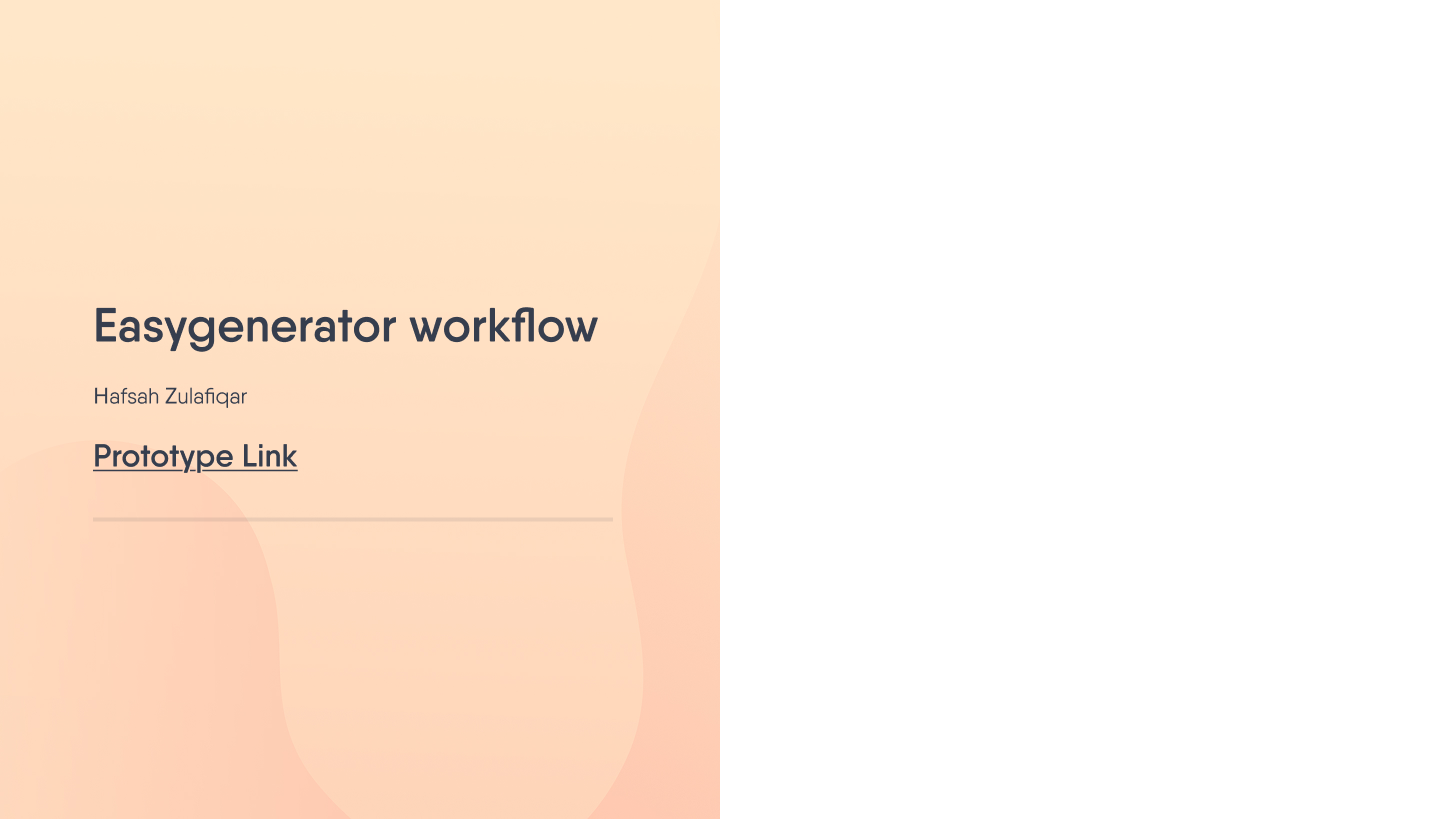
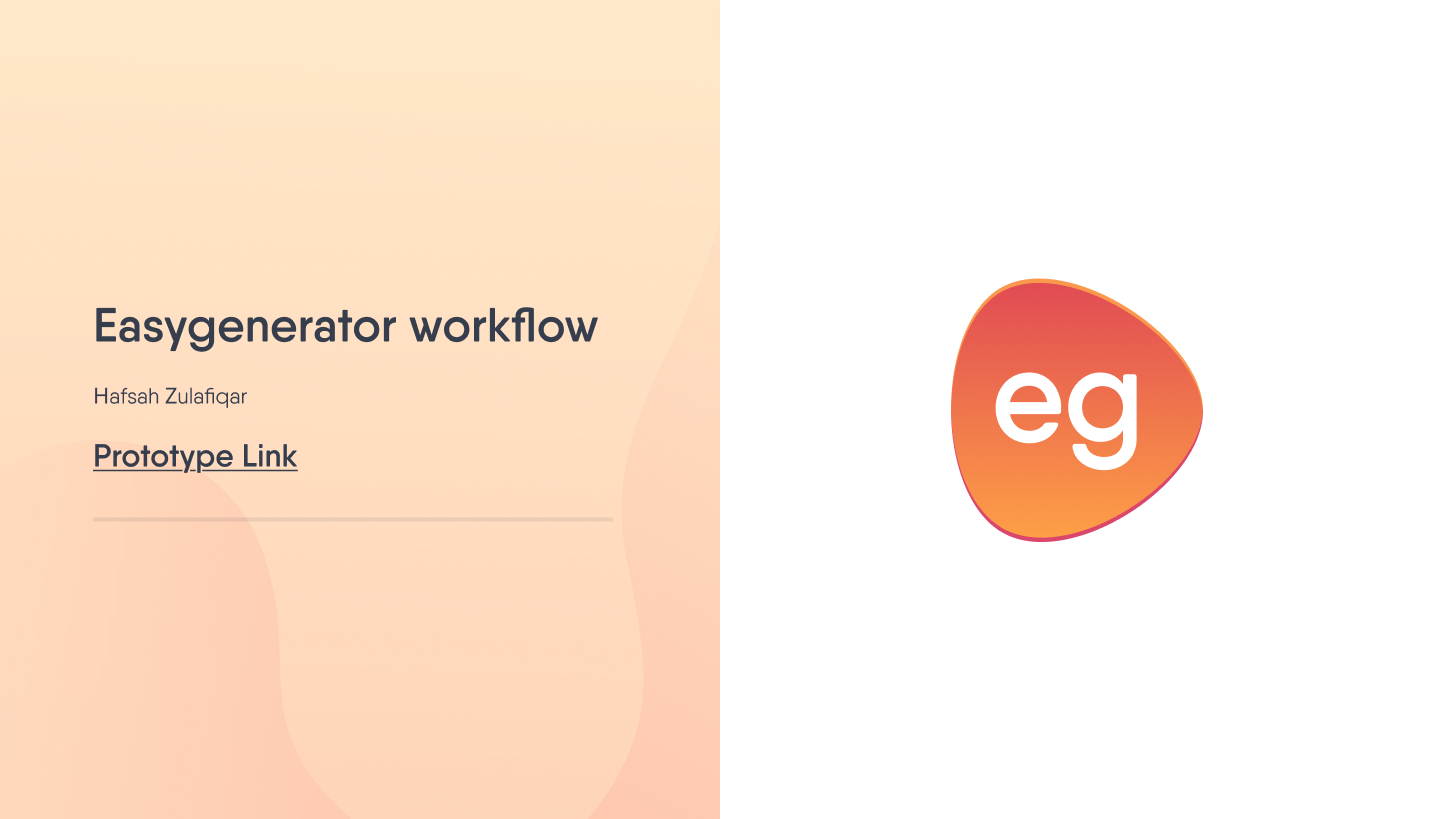
Homepage case study tags, new Easygenerator cover

Changed region(s): [[0.6562, 0.3358, 0.8438, 0.6716]]

diff --git a/index.html b/index.html
@@ -19,7 +19,7 @@
 <meta name="twitter:description" content="Customer Experience &amp; Design Manager and Product Design Manager based in Dubai, UAE. Design and growth case studies from FITT Meals, Kahunas, PureCS, and more.">
 <meta name="twitter:image" content="https://hafsahzulafiqar-prod.github.io/hafsahzulafiqar/assets/profile/hafsah.png">
 <script>document.documentElement.classList.add('js-ready');</script>
-<link rel="stylesheet" href="styles.css?v=2026100821">
+<link rel="stylesheet" href="styles.css?v=2026100823">
 <link rel="preconnect" href="https://fonts.googleapis.com">
 <link rel="preconnect" href="https://fonts.gstatic.com" crossorigin>
 <link href="https://fonts.googleapis.com/css2?family=DM+Sans:wght@400;500;700&family=Fira+Sans:wght@400;700;800;900&display=swap" rel="stylesheet">
@@ -203,6 +203,7 @@
           <article class="case-studies-card active">
             <div class="case-studies-media" aria-hidden="true"><video class="case-video-fill" src="assets/mualim/intro.mp4" poster="assets/mualim/intro-poster.jpg" muted loop playsinline preload="none"></video></div>
             <div class="case-studies-info">
+              <p class="case-studies-tags">EdTech | AI learning | KSA</p>
               <p class="case-studies-kicker">Mualim: AI Tutor for Kids</p>
               <h3 class="case-studies-title">Reimagining learning support for kids in Saudi Arabia.</h3>
               <div class="case-studies-results">
@@ -218,6 +219,7 @@
           <article class="case-studies-card">
             <div class="case-studies-media" aria-hidden="true"><video class="case-video-fill" src="assets/fitt-meals/intro.mp4" poster="assets/fitt-meals/intro-poster.jpg" muted loop playsinline preload="none"></video></div>
             <div class="case-studies-info">
+              <p class="case-studies-tags">DTC | E-commerce | UAE</p>
               <p class="case-studies-kicker">FITT Meals: Subscription Journey</p>
               <h3 class="case-studies-title">Revamping the user journey of subscribing to a meal plan.</h3>
               <div class="case-studies-results">
@@ -234,6 +236,7 @@
           <article class="case-studies-card">
             <div class="case-studies-media thumb-kahunas-hero" aria-hidden="true"></div>
             <div class="case-studies-info">
+              <p class="case-studies-tags">B2B | SaaS platform | UAE/USA</p>
               <p class="case-studies-kicker">Kahunas: B2B Coaching Platform</p>
               <h3 class="case-studies-title">Making a coaching platform easy to navigate again, without losing the upsell.</h3>
               <div class="case-studies-results">
@@ -249,6 +252,7 @@
           <article class="case-studies-card">
             <div class="case-studies-media" aria-hidden="true"><video class="case-video-fill" src="assets/purecs/intro.mp4" poster="assets/purecs/intro-poster.jpg" muted loop playsinline preload="none"></video></div>
             <div class="case-studies-info">
+              <p class="case-studies-tags">Healthtech | AI | B2C | UAE</p>
               <p class="case-studies-kicker">PureCS: Pura Health App</p>
               <h3 class="case-studies-title">A Double Diamond redesign that lifted user satisfaction 60%.</h3>
               <div class="case-studies-results">
@@ -273,7 +277,7 @@
       <div class="beyond-group">
         <h3 class="beyond-group-title">Exploration</h3>
         <a class="beyond-card beyond-card--link" href="https://www.figma.com/proto/4HgsmJL4m65JewZu1iMInX/Easygenerator-Assignment--Hafsah?node-id=103-41727&amp;viewport=-58%2C68%2C0.04&amp;t=wSrAgTviGucrOHat-1&amp;scaling=min-zoom&amp;content-scaling=fixed&amp;starting-point-node-id=103%3A41727&amp;page-id=0%3A1" target="_blank" rel="noopener noreferrer">
-          <span class="beyond-media"><img src="assets/beyond/easygenerator-cover.png" alt="Easygenerator workflow: prototype cover slide" width="1440" height="819" loading="lazy"></span>
+          <span class="beyond-media"><img src="assets/beyond/easygenerator-cover.png?v=2" alt="Easygenerator workflow: prototype cover slide" width="1440" height="819" loading="lazy"></span>
           <h3>Discussion module- Easygenerator</h3>
         </a>
       </div>
@@ -416,6 +420,6 @@
   </div>
 </div>
 
-<script src="script.js?v=2026100821"></script>
+<script src="script.js?v=2026100823"></script>
 </body>
 </html>

diff --git a/work/fitt-subscription-journey.html b/work/fitt-subscription-journey.html
@@ -5,7 +5,7 @@
 <link rel="icon" type="image/svg+xml" href="../assets/favicon.svg">
 <meta name="viewport" content="width=device-width, initial-scale=1.0">
 <title>FITT Meals: Subscription Journey | Hafsah Zulafiqar</title>
-<link rel="stylesheet" href="../styles.css?v=2026100821">
+<link rel="stylesheet" href="../styles.css?v=2026100823">
 <link rel="preconnect" href="https://fonts.googleapis.com">
 <link rel="preconnect" href="https://fonts.gstatic.com" crossorigin>
 <link href="https://fonts.googleapis.com/css2?family=DM+Sans:wght@400;500;700&family=Fira+Sans:wght@400;700;800;900&display=swap" rel="stylesheet">
@@ -280,6 +280,6 @@
   <div class="footer-skyline" aria-hidden="true"></div>
 </footer>
 
-<script src="../script.js?v=2026100821"></script>
+<script src="../script.js?v=2026100823"></script>
 </body>
 </html>

diff --git a/work/ai-tutor-ksa.html b/work/ai-tutor-ksa.html
@@ -5,7 +5,7 @@
 <link rel="icon" type="image/svg+xml" href="../assets/favicon.svg">
 <meta name="viewport" content="width=device-width, initial-scale=1.0">
 <title>Mualim | Hafsah Zulafiqar</title>
-<link rel="stylesheet" href="../styles.css?v=2026100821">
+<link rel="stylesheet" href="../styles.css?v=2026100823">
 <link rel="preconnect" href="https://fonts.googleapis.com">
 <link rel="preconnect" href="https://fonts.gstatic.com" crossorigin>
 <link href="https://fonts.googleapis.com/css2?family=DM+Sans:wght@400;500;700&family=Fira+Sans:wght@400;700;800;900&display=swap" rel="stylesheet">
@@ -254,6 +254,6 @@
   <div class="footer-skyline" aria-hidden="true"></div>
 </footer>
 
-<script src="../script.js?v=2026100821"></script>
+<script src="../script.js?v=2026100823"></script>
 </body>
 </html>

diff --git a/work/pura-health-redesign.html b/work/pura-health-redesign.html
@@ -5,7 +5,7 @@
 <link rel="icon" type="image/svg+xml" href="../assets/favicon.svg">
 <meta name="viewport" content="width=device-width, initial-scale=1.0">
 <title>PureCS | Hafsah Zulafiqar</title>
-<link rel="stylesheet" href="../styles.css?v=2026100821">
+<link rel="stylesheet" href="../styles.css?v=2026100823">
 <link rel="preconnect" href="https://fonts.googleapis.com">
 <link rel="preconnect" href="https://fonts.gstatic.com" crossorigin>
 <link href="https://fonts.googleapis.com/css2?family=DM+Sans:wght@400;500;700&family=Fira+Sans:wght@400;700;800;900&display=swap" rel="stylesheet">
@@ -298,6 +298,6 @@
   <div class="footer-skyline" aria-hidden="true"></div>
 </footer>
 
-<script src="../script.js?v=2026100821"></script>
+<script src="../script.js?v=2026100823"></script>
 </body>
 </html>

diff --git a/work/jugnu-retailer-app.html b/work/jugnu-retailer-app.html
@@ -5,7 +5,7 @@
 <link rel="icon" type="image/svg+xml" href="../assets/favicon.svg">
 <meta name="viewport" content="width=device-width, initial-scale=1.0">
 <title>Jugnu | Hafsah Zulafiqar</title>
-<link rel="stylesheet" href="../styles.css?v=2026100821">
+<link rel="stylesheet" href="../styles.css?v=2026100823">
 <link rel="preconnect" href="https://fonts.googleapis.com">
 <link rel="preconnect" href="https://fonts.gstatic.com" crossorigin>
 <link href="https://fonts.googleapis.com/css2?family=DM+Sans:wght@400;500;700&family=Fira+Sans:wght@400;700;800;900&display=swap" rel="stylesheet">
@@ -414,6 +414,6 @@
   </div>
 </div>
 
-<script src="../script.js?v=2026100821"></script>
+<script src="../script.js?v=2026100823"></script>
 </body>
 </html>

diff --git a/work/dtc-meal-plans.html b/work/dtc-meal-plans.html
@@ -5,7 +5,7 @@
 <link rel="icon" type="image/svg+xml" href="../assets/favicon.svg">
 <meta name="viewport" content="width=device-width, initial-scale=1.0">
 <title>FITT Meals | Hafsah Zulafiqar</title>
-<link rel="stylesheet" href="../styles.css?v=2026100821">
+<link rel="stylesheet" href="../styles.css?v=2026100823">
 <link rel="preconnect" href="https://fonts.googleapis.com">
 <link rel="preconnect" href="https://fonts.gstatic.com" crossorigin>
 <link href="https://fonts.googleapis.com/css2?family=DM+Sans:wght@400;500;700&family=Fira+Sans:wght@400;700;800;900&display=swap" rel="stylesheet">
@@ -119,6 +119,6 @@
 </div>
 
 
-<script src="../script.js?v=2026100821"></script>
+<script src="../script.js?v=2026100823"></script>
 </body>
 </html>

diff --git a/work/b2b-coaches.html b/work/b2b-coaches.html
@@ -5,7 +5,7 @@
 <link rel="icon" type="image/svg+xml" href="../assets/favicon.svg">
 <meta name="viewport" content="width=device-width, initial-scale=1.0">
 <title>Kahunas | Hafsah Zulafiqar</title>
-<link rel="stylesheet" href="../styles.css?v=2026100821">
+<link rel="stylesheet" href="../styles.css?v=2026100823">
 <link rel="preconnect" href="https://fonts.googleapis.com">
 <link rel="preconnect" href="https://fonts.gstatic.com" crossorigin>
 <link href="https://fonts.googleapis.com/css2?family=DM+Sans:wght@400;500;700&family=Fira+Sans:wght@400;700;800;900&display=swap" rel="stylesheet">
@@ -219,6 +219,6 @@
 
 
 
-<script src="../script.js?v=2026100821"></script>
+<script src="../script.js?v=2026100823"></script>
 </body>
 </html>

diff --git a/resume.html b/resume.html
@@ -5,7 +5,7 @@
 <link rel="icon" type="image/svg+xml" href="assets/favicon.svg">
 <meta name="viewport" content="width=device-width, initial-scale=1.0">
 <title>Resume | Hafsah Zulafiqar</title>
-<link rel="stylesheet" href="styles.css?v=2026100821">
+<link rel="stylesheet" href="styles.css?v=2026100823">
 <link rel="preconnect" href="https://fonts.googleapis.com">
 <link rel="preconnect" href="https://fonts.gstatic.com" crossorigin>
 <link href="https://fonts.googleapis.com/css2?family=DM+Sans:wght@400;500;700&family=Fira+Sans:wght@400;700;800;900&display=swap" rel="stylesheet">
@@ -95,6 +95,6 @@
 </main>
 
 
-<script src="script.js?v=2026100821"></script>
+<script src="script.js?v=2026100823"></script>
 </body>
 </html>

diff --git a/about.html b/about.html
@@ -5,7 +5,7 @@
 <link rel="icon" type="image/svg+xml" href="assets/favicon.svg">
 <meta name="viewport" content="width=device-width, initial-scale=1.0">
 <title>About | Hafsah Zulafiqar</title>
-<link rel="stylesheet" href="styles.css?v=2026100821">
+<link rel="stylesheet" href="styles.css?v=2026100823">
 <link rel="preconnect" href="https://fonts.googleapis.com">
 <link rel="preconnect" href="https://fonts.gstatic.com" crossorigin>
 <link href="https://fonts.googleapis.com/css2?family=DM+Sans:wght@400;500;700&family=Fira+Sans:wght@400;700;800;900&display=swap" rel="stylesheet">
@@ -83,6 +83,6 @@
 </main>
 
 
-<script src="script.js?v=2026100821"></script>
+<script src="script.js?v=2026100823"></script>
 </body>
 </html>

diff --git a/styles.css b/styles.css
@@ -227,6 +227,12 @@ a { color: inherit; text-decoration: none; }
   color: var(--text-muted);
   margin-bottom: 10px;
 }
+.case-studies-tags {
+  font-size: 0.8rem;
+  font-weight: 700;
+  color: var(--accent);
+  margin-bottom: 6px;
+}
 .case-studies-title {
   font-family: 'Fira Sans', var(--font-display);
   font-weight: 700;
